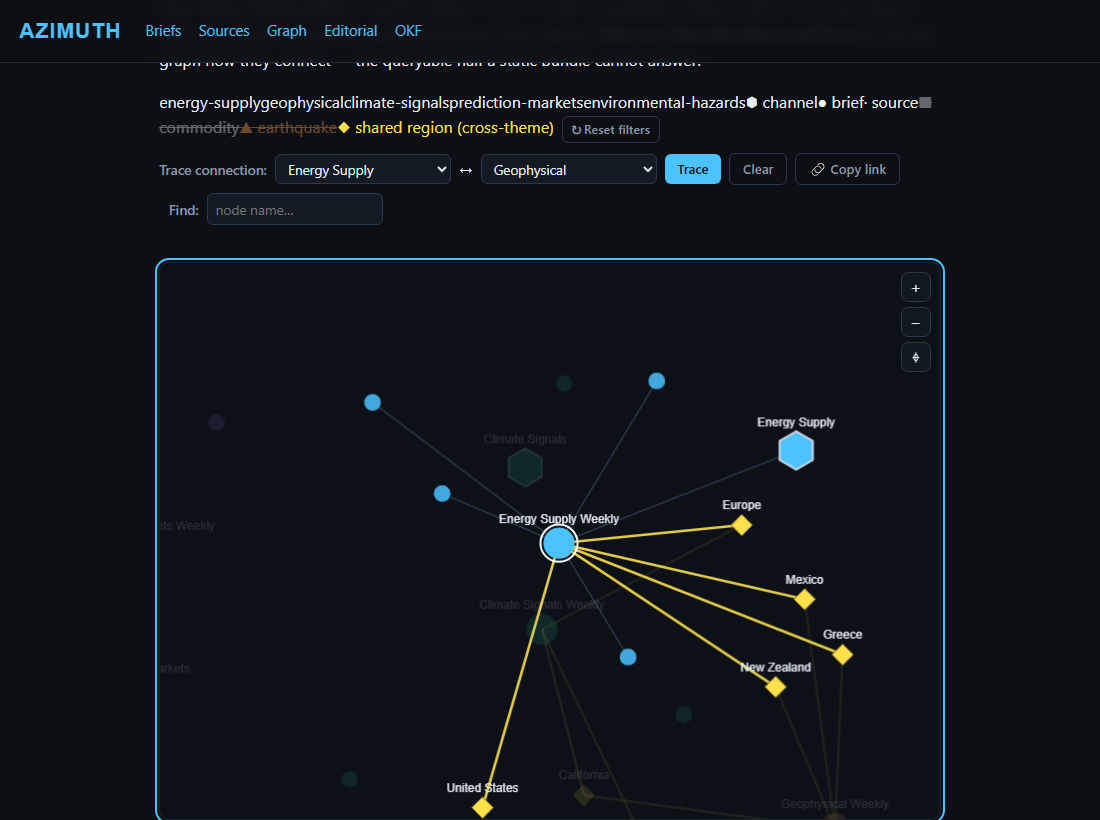
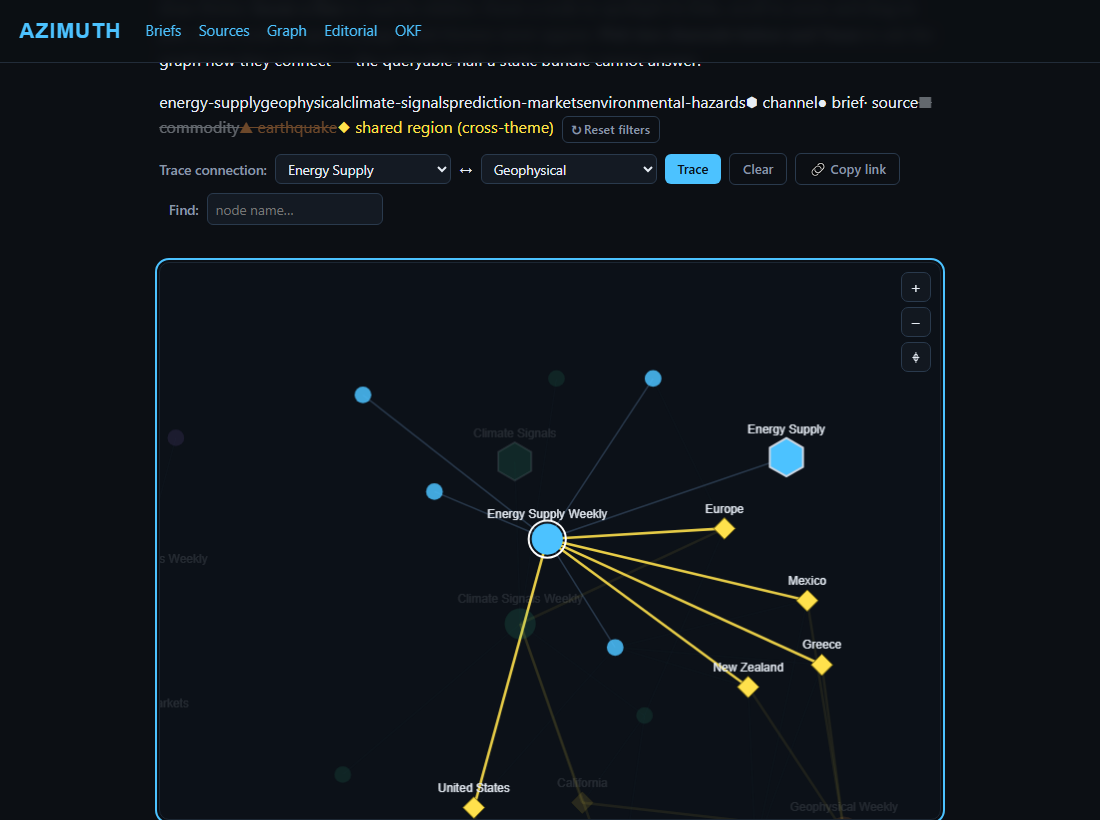
feat(graph): full view state in the shareable URL — filters + trace + focus (KR-B)
The graph already advertised 'the view is a URL', but only a Trace or a Find
wrote the #hash — the legend layer-filter set never did, so a 'Copy link' could
not reproduce which layers a reader had open. Serialise the WHOLE view state into
one composite hash: layers=<hidden kinds>&trace=<a,b>&node=<label>, each key
omitted when unset. applyHash now parses the '&'-joined multi-key form (a bare
legacy #trace= / #node= link is just the one-pair case, so old shared links still
replay). Layers restore first so a focused/traced node lands against the right
visible set. Live smoke proves a legend toggle round-trips through a reload;
unit guard pins the serialiser + multi-key parser.

diff --git a/site/graph.html b/site/graph.html
@@ -134,6 +134,15 @@ document.getElementById("legend").innerHTML = legend;
 // "Reset filters" button returns to this default view.
 const DEFAULT_HIDDEN = ["commodity", "event"];
 const HIDDEN = new Set(DEFAULT_HIDDEN);
+// Full view state lives in the URL — the layer-filter set + an active Trace + a focused
+// node — so "Copy link" reproduces the EXACT graph a reader is looking at, not just a bare
+// trace. VIEW is the single source the #hash is serialised from; layersState() returns the
+// hidden-kinds set only when it differs from the default (else null = omit from the hash).
+const VIEW = { layers: null, trace: null, node: null };
+const layersState = () => {
+  const cur = [...HIDDEN].sort(), def = [...DEFAULT_HIDDEN].sort();
+  return (cur.length === def.length && cur.every((c, i) => c === def[i])) ? null : cur;
+};
 const classOf = n => n.kind === "concept" ? "channel"
   : n.kind === "brief" ? "brief"
   : n.kind === "source" ? "source"
@@ -148,13 +157,14 @@ document.querySelectorAll("#legend .lg[data-cls]").forEach(el => {
     const c = el.dataset.cls;
     HIDDEN.has(c) ? HIDDEN.delete(c) : HIDDEN.add(c);
     el.classList.toggle("off", HIDDEN.has(c));
+    VIEW.layers = layersState(); syncHash();   // the filter set is part of the shareable view
     mark();
   });
 });
 const freset = document.getElementById("freset");
 if (freset) freset.addEventListener("click", () => {
   HIDDEN.clear(); DEFAULT_HIDDEN.forEach(c => HIDDEN.add(c));
-  syncChips(); mark();
+  syncChips(); VIEW.layers = null; syncHash(); mark();
 });
 syncChips();  // reflect the default-hidden layers on the legend chips at load
 // --- text fallback / accessibility list -----------------------------------
@@ -327,21 +337,33 @@ function trace() {
   out.textContent = txt;
 }
 // --- shareable deep links --------------------------------------------------
-// The view is a URL: a Trace or a Find writes a #hash, and on load that hash replays the
-// same query — so a specific answer ("how energy connects to geophysical") can be linked
-// straight from the build-in-public feed and opens already traced. replaceState keeps it
-// off the back button and out of the hashchange loop.
+// The whole view is a URL: the layer filters + an active Trace + a focused node each write
+// into one composite #hash, and on load that hash replays the exact view — so a specific
+// answer ("how energy connects to geophysical, commodity layer on, Ukraine focused") can be
+// linked straight from the build-in-public feed and opens already set up. syncHash()
+// serialises VIEW into `layers=…&trace=…&node=…` (each key omitted when unset), so a bare
+// legacy `#trace=…` or `#node=…` link still parses as a single key. replaceState keeps the
+// hash off the back button and out of the hashchange loop.
 let applyingHash = false;
 const writeHash = h => { applyingHash = true; try {
   history.replaceState(null, "", h ? "#"+h : location.pathname + location.search);
 } finally { applyingHash = false; } };
+const syncHash = () => {
+  const parts = [];
+  if (VIEW.layers) parts.push("layers=" + VIEW.layers.map(encodeURIComponent).join(","));
+  if (VIEW.trace)  parts.push("trace=" + VIEW.trace.map(encodeURIComponent).join(","));
+  if (VIEW.node)   parts.push("node=" + encodeURIComponent(VIEW.node));
+  writeHash(parts.join("&"));
+};
 if (qa && qb) {
   document.getElementById("qgo").addEventListener("click", () => {
     trace();
-    if (qa.value !== qb.value) writeHash("trace=" + encodeURIComponent(qa.value) + "," + encodeURIComponent(qb.value));
+    VIEW.trace = (qa.value !== qb.value) ? [qa.value, qb.value] : null;
+    syncHash();
   });
   document.getElementById("qclear").addEventListener("click", () => {
-    HILITE = null; document.getElementById("qout").textContent = ""; writeHash(""); mark();
+    HILITE = null; document.getElementById("qout").textContent = "";
+    VIEW.trace = null; syncHash(); mark();
   });
 }
 // --- search: jump to any node by name --------------------------------------
@@ -355,7 +377,7 @@ if (search) {
     GRAPH.nodes.map(n => `<option value="${n.label.replace(/"/g, "&quot;")}"></option>`).join("");
   doFocus = () => {
     const q = search.value.trim().toLowerCase();
-    if (!q) { pinnedId = null; writeHash(""); mark(); return; }
+    if (!q) { pinnedId = null; VIEW.node = null; syncHash(); mark(); return; }
     const hit = GRAPH.nodes.find(n => n.label.toLowerCase() === q)
       || GRAPH.nodes.find(n => n.label.toLowerCase().includes(q));
     const nn = hit && idx[hit.id];
@@ -364,7 +386,7 @@ if (search) {
     view.s = Math.max(view.s, 1.2);
     view.tx = CSSW/2 - nn.x*view.s; view.ty = CSSH/2 - nn.y*view.s;
     userView = true; reheat(0.15);
-    writeHash("node=" + encodeURIComponent(nodeById[nn.id].label));
+    VIEW.node = nodeById[nn.id].label; syncHash();
   };
   search.addEventListener("change", doFocus);
   search.addEventListener("keydown", e => { if (e.key === "Enter") doFocus(); });
@@ -377,18 +399,29 @@ if (qshare) qshare.addEventListener("click", async () => {
   try { await navigator.clipboard.writeText(location.href); if (out) out.textContent = "Link copied to clipboard."; }
   catch (_) { if (out) out.textContent = location.href; }
 });
-// Replay a deep link on load: #trace=<themeA>,<themeB> or #node=<label>.
+// Replay a deep link on load: any `&`-joined mix of #layers=<kinds>, #trace=<themeA>,<themeB>
+// and #node=<label> (a bare single key is just the one-pair case, so old links still work).
+// Layers are restored first so a focused/traced node lands against the right visible set.
 function applyHash() {
   const raw = location.hash.replace(/^#/, "");
   if (!raw) return;
-  const eq = raw.indexOf("=");
-  const k = raw.slice(0, eq), v = decodeURIComponent(raw.slice(eq + 1));
-  if (k === "trace" && qa && qb) {
-    const [ta, tb] = v.split(",");
-    const themes = new Set(briefNodes.map(b => b.theme));
-    if (themes.has(ta) && themes.has(tb)) { qa.value = ta; qb.value = tb; trace(); }
-  } else if (k === "node" && search && doFocus) {
-    search.value = v; doFocus();
+  const pairs = raw.split("&").map(p => {
+    const eq = p.indexOf("=");
+    return eq < 0 ? null : [p.slice(0, eq), decodeURIComponent(p.slice(eq + 1))];
+  }).filter(Boolean);
+  pairs.sort((a, b) => (a[0] === "layers" ? -1 : 0) - (b[0] === "layers" ? -1 : 0));
+  for (const [k, v] of pairs) {
+    if (k === "layers") {
+      HIDDEN.clear();
+      v.split(",").filter(Boolean).forEach(c => HIDDEN.add(c));
+      syncChips(); VIEW.layers = layersState(); mark();
+    } else if (k === "trace" && qa && qb) {
+      const [ta, tb] = v.split(",");
+      const themes = new Set(briefNodes.map(b => b.theme));
+      if (themes.has(ta) && themes.has(tb)) { qa.value = ta; qb.value = tb; trace(); VIEW.trace = [ta, tb]; }
+    } else if (k === "node" && search && doFocus) {
+      search.value = v; doFocus();
+    }
   }
 }
 // Highlight = an active Trace (HILITE) OR, absent that, the hovered node's neighbourhood.
@@ -643,7 +676,7 @@ function focusNodeAt(i) {
   view.tx = CSSW/2 - n.x*view.s; view.ty = CSSH/2 - n.y*view.s;
   userView = true; reheat(0.12); mark();
   announce(`${n.label}: ${relText(n)}${n.url ? " — press Enter to open its page" : ""}. Node ${kbi+1} of ${order.length}.`);
-  writeHash("node=" + encodeURIComponent(n.label));
+  VIEW.node = n.label; syncHash();
 }
 cv.addEventListener("keydown", ev => {
   switch (ev.key) {
@@ -661,7 +694,7 @@ cv.addEventListener("keydown", ev => {
     case "-": case "_": ev.preventDefault(); zoomBy(1/1.3); break;
     case "0": ev.preventDefault(); userView = false; resize(); mark(); break;
     case "Escape": ev.preventDefault(); pinnedId = null; kbi = -1; HILITE = null;
-      announce("Selection cleared."); writeHash(""); mark(); break;
+      VIEW.node = null; VIEW.trace = null; announce("Selection cleared."); syncHash(); mark(); break;
   }
 });
 cv.addEventListener("focus", () => {

diff --git a/scripts/build_graph.py b/scripts/build_graph.py
@@ -663,6 +663,15 @@ document.getElementById("legend").innerHTML = legend;
 // "Reset filters" button returns to this default view.
 const DEFAULT_HIDDEN = ["commodity", "event"];
 const HIDDEN = new Set(DEFAULT_HIDDEN);
+// Full view state lives in the URL — the layer-filter set + an active Trace + a focused
+// node — so "Copy link" reproduces the EXACT graph a reader is looking at, not just a bare
+// trace. VIEW is the single source the #hash is serialised from; layersState() returns the
+// hidden-kinds set only when it differs from the default (else null = omit from the hash).
+const VIEW = { layers: null, trace: null, node: null };
+const layersState = () => {
+  const cur = [...HIDDEN].sort(), def = [...DEFAULT_HIDDEN].sort();
+  return (cur.length === def.length && cur.every((c, i) => c === def[i])) ? null : cur;
+};
 const classOf = n => n.kind === "concept" ? "channel"
   : n.kind === "brief" ? "brief"
   : n.kind === "source" ? "source"
@@ -677,13 +686,14 @@ document.querySelectorAll("#legend .lg[data-cls]").forEach(el => {
     const c = el.dataset.cls;
     HIDDEN.has(c) ? HIDDEN.delete(c) : HIDDEN.add(c);
     el.classList.toggle("off", HIDDEN.has(c));
+    VIEW.layers = layersState(); syncHash();   // the filter set is part of the shareable view
     mark();
   });
 });
 const freset = document.getElementById("freset");
 if (freset) freset.addEventListener("click", () => {
   HIDDEN.clear(); DEFAULT_HIDDEN.forEach(c => HIDDEN.add(c));
-  syncChips(); mark();
+  syncChips(); VIEW.layers = null; syncHash(); mark();
 });
 syncChips();  // reflect the default-hidden layers on the legend chips at load
 // --- text fallback / accessibility list -----------------------------------
@@ -856,21 +866,33 @@ function trace() {
   out.textContent = txt;
 }
 // --- shareable deep links --------------------------------------------------
-// The view is a URL: a Trace or a Find writes a #hash, and on load that hash replays the
-// same query — so a specific answer ("how energy connects to geophysical") can be linked
-// straight from the build-in-public feed and opens already traced. replaceState keeps it
-// off the back button and out of the hashchange loop.
+// The whole view is a URL: the layer filters + an active Trace + a focused node each write
+// into one composite #hash, and on load that hash replays the exact view — so a specific
+// answer ("how energy connects to geophysical, commodity layer on, Ukraine focused") can be
+// linked straight from the build-in-public feed and opens already set up. syncHash()
+// serialises VIEW into `layers=…&trace=…&node=…` (each key omitted when unset), so a bare
+// legacy `#trace=…` or `#node=…` link still parses as a single key. replaceState keeps the
+// hash off the back button and out of the hashchange loop.
 let applyingHash = false;
 const writeHash = h => { applyingHash = true; try {
   history.replaceState(null, "", h ? "#"+h : location.pathname + location.search);
 } finally { applyingHash = false; } };
+const syncHash = () => {
+  const parts = [];
+  if (VIEW.layers) parts.push("layers=" + VIEW.layers.map(encodeURIComponent).join(","));
+  if (VIEW.trace)  parts.push("trace=" + VIEW.trace.map(encodeURIComponent).join(","));
+  if (VIEW.node)   parts.push("node=" + encodeURIComponent(VIEW.node));
+  writeHash(parts.join("&"));
+};
 if (qa && qb) {
   document.getElementById("qgo").addEventListener("click", () => {
     trace();
-    if (qa.value !== qb.value) writeHash("trace=" + encodeURIComponent(qa.value) + "," + encodeURIComponent(qb.value));
+    VIEW.trace = (qa.value !== qb.value) ? [qa.value, qb.value] : null;
+    syncHash();
   });
   document.getElementById("qclear").addEventListener("click", () => {
-    HILITE = null; document.getElementById("qout").textContent = ""; writeHash(""); mark();
+    HILITE = null; document.getElementById("qout").textContent = "";
+    VIEW.trace = null; syncHash(); mark();
   });
 }
 // --- search: jump to any node by name --------------------------------------
@@ -884,7 +906,7 @@ if (search) {
     GRAPH.nodes.map(n => `<option value="${n.label.replace(/"/g, "&quot;")}"></option>`).join("");
   doFocus = () => {
     const q = search.value.trim().toLowerCase();
-    if (!q) { pinnedId = null; writeHash(""); mark(); return; }
+    if (!q) { pinnedId = null; VIEW.node = null; syncHash(); mark(); return; }
     const hit = GRAPH.nodes.find(n => n.label.toLowerCase() === q)
       || GRAPH.nodes.find(n => n.label.toLowerCase().includes(q));
     const nn = hit && idx[hit.id];
@@ -893,7 +915,7 @@ if (search) {
     view.s = Math.max(view.s, 1.2);
     view.tx = CSSW/2 - nn.x*view.s; view.ty = CSSH/2 - nn.y*view.s;
     userView = true; reheat(0.15);
-    writeHash("node=" + encodeURIComponent(nodeById[nn.id].label));
+    VIEW.node = nodeById[nn.id].label; syncHash();
   };
   search.addEventListener("change", doFocus);
   search.addEventListener("keydown", e => { if (e.key === "Enter") doFocus(); });
@@ -906,18 +928,29 @@ if (qshare) qshare.addEventListener("click", async () => {
   try { await navigator.clipboard.writeText(location.href); if (out) out.textContent = "Link copied to clipboard."; }
   catch (_) { if (out) out.textContent = location.href; }
 });
-// Replay a deep link on load: #trace=<themeA>,<themeB> or #node=<label>.
+// Replay a deep link on load: any `&`-joined mix of #layers=<kinds>, #trace=<themeA>,<themeB>
+// and #node=<label> (a bare single key is just the one-pair case, so old links still work).
+// Layers are restored first so a focused/traced node lands against the right visible set.
 function applyHash() {
   const raw = location.hash.replace(/^#/, "");
   if (!raw) return;
-  const eq = raw.indexOf("=");
-  const k = raw.slice(0, eq), v = decodeURIComponent(raw.slice(eq + 1));
-  if (k === "trace" && qa && qb) {
-    const [ta, tb] = v.split(",");
-    const themes = new Set(briefNodes.map(b => b.theme));
-    if (themes.has(ta) && themes.has(tb)) { qa.value = ta; qb.value = tb; trace(); }
-  } else if (k === "node" && search && doFocus) {
-    search.value = v; doFocus();
+  const pairs = raw.split("&").map(p => {
+    const eq = p.indexOf("=");
+    return eq < 0 ? null : [p.slice(0, eq), decodeURIComponent(p.slice(eq + 1))];
+  }).filter(Boolean);
+  pairs.sort((a, b) => (a[0] === "layers" ? -1 : 0) - (b[0] === "layers" ? -1 : 0));
+  for (const [k, v] of pairs) {
+    if (k === "layers") {
+      HIDDEN.clear();
+      v.split(",").filter(Boolean).forEach(c => HIDDEN.add(c));
+      syncChips(); VIEW.layers = layersState(); mark();
+    } else if (k === "trace" && qa && qb) {
+      const [ta, tb] = v.split(",");
+      const themes = new Set(briefNodes.map(b => b.theme));
+      if (themes.has(ta) && themes.has(tb)) { qa.value = ta; qb.value = tb; trace(); VIEW.trace = [ta, tb]; }
+    } else if (k === "node" && search && doFocus) {
+      search.value = v; doFocus();
+    }
   }
 }
 // Highlight = an active Trace (HILITE) OR, absent that, the hovered node's neighbourhood.
@@ -1172,7 +1205,7 @@ function focusNodeAt(i) {
   view.tx = CSSW/2 - n.x*view.s; view.ty = CSSH/2 - n.y*view.s;
   userView = true; reheat(0.12); mark();
   announce(`${n.label}: ${relText(n)}${n.url ? " — press Enter to open its page" : ""}. Node ${kbi+1} of ${order.length}.`);
-  writeHash("node=" + encodeURIComponent(n.label));
+  VIEW.node = n.label; syncHash();
 }
 cv.addEventListener("keydown", ev => {
   switch (ev.key) {
@@ -1190,7 +1223,7 @@ cv.addEventListener("keydown", ev => {
     case "-": case "_": ev.preventDefault(); zoomBy(1/1.3); break;
     case "0": ev.preventDefault(); userView = false; resize(); mark(); break;
     case "Escape": ev.preventDefault(); pinnedId = null; kbi = -1; HILITE = null;
-      announce("Selection cleared."); writeHash(""); mark(); break;
+      VIEW.node = null; VIEW.trace = null; announce("Selection cleared."); syncHash(); mark(); break;
   }
 });
 cv.addEventListener("focus", () => {

diff --git a/scripts/smoke_graph.py b/scripts/smoke_graph.py
@@ -119,6 +119,31 @@ def main() -> int:
             if before_kb == after_kb:
                 failures.append("ArrowRight did not move/redraw the graph (keyboard nav is dead)")
             page.screenshot(path=str(_SHOTS / "graph-keyboard.png"))
+
+            # --- shareable view state: a legend filter round-trips through the URL -----
+            # Toggle the commodity layer ON, prove the #hash captured it (layers=...), reload
+            # from that same URL, and prove the layer stayed ON. This is the "the whole view
+            # is a URL" guarantee — a bare trace link can't reproduce which layers a reader
+            # had open; a shared link now can (KR-B full-view-state share proof).
+            page.eval_on_selector("#legend .lg[data-cls='commodity']", "el => el.click()")
+            page.wait_for_timeout(150)
+            hash_after_toggle = page.evaluate("() => location.hash")
+            print(f"Hash after commodity toggle: {hash_after_toggle!r}")
+            if "layers=" not in hash_after_toggle:
+                failures.append(
+                    f"legend toggle did not write layers= into the URL: {hash_after_toggle!r}"
+                )
+            page.reload(wait_until="networkidle")
+            page.wait_for_timeout(400)
+            chip_off = page.eval_on_selector(
+                "#legend .lg[data-cls='commodity']", "el => el.classList.contains('off')"
+            )
+            if chip_off:
+                failures.append(
+                    "commodity layer did not survive a reload from the shared URL (view state lost)"
+                )
+            else:
+                print("filter state round-tripped through the URL on reload OK")
             page.close()
 
             # --- mobile: responsive render + touch-drag pans -----------------------

diff --git a/tests/unit/test_build_graph.py b/tests/unit/test_build_graph.py
@@ -462,6 +462,28 @@ def test_every_live_channel_has_a_dedicated_colour() -> None:
     assert len(set(chosen)) == len(chosen), "two channels share a colour"
 
 
+def test_rendered_html_serialises_full_view_state_to_the_url(tmp_path: Path) -> None:
+    """Shareable view: the WHOLE view — layer filters + an active Trace + a focused node —
+    round-trips through one composite #hash, so "Copy link" reproduces the exact graph a
+    reader is looking at (not just a bare trace). Template-only behaviour, so it gets its own
+    presence guard alongside the legacy single-key deep-link guard above.
+    """
+    graph = _build(tmp_path)
+    html = build_graph_mod.render_html(graph)
+
+    # the composite serialiser + its VIEW source + the layer-diff helper
+    for token in ("const syncHash", "VIEW.layers", "VIEW.trace", "VIEW.node", "layersState"):
+        assert token in html, f"view-state token missing from graph.html: {token}"
+
+    # the filter set is now a URL key, joined to trace/node with '&' (not a lone key)
+    assert 'push("layers=' in html, "layer-filter state is not serialised into the hash"
+    assert 'parts.join("&")' in html, "view-state keys are not '&'-joined into one hash"
+
+    # applyHash restores the layer filters (back-compat: bare #trace=/#node= still parse)
+    assert 'k === "layers"' in html, "applyHash does not restore the layer-filter state"
+    assert 'raw.split("&")' in html, "applyHash does not parse a multi-key hash"
+
+
 def test_rendered_html_honours_reduced_motion(tmp_path: Path) -> None:
     """Accessibility: the viz must respect prefers-reduced-motion — no auto-playing
     layout animation for motion-sensitive visitors. The template detects the media query,